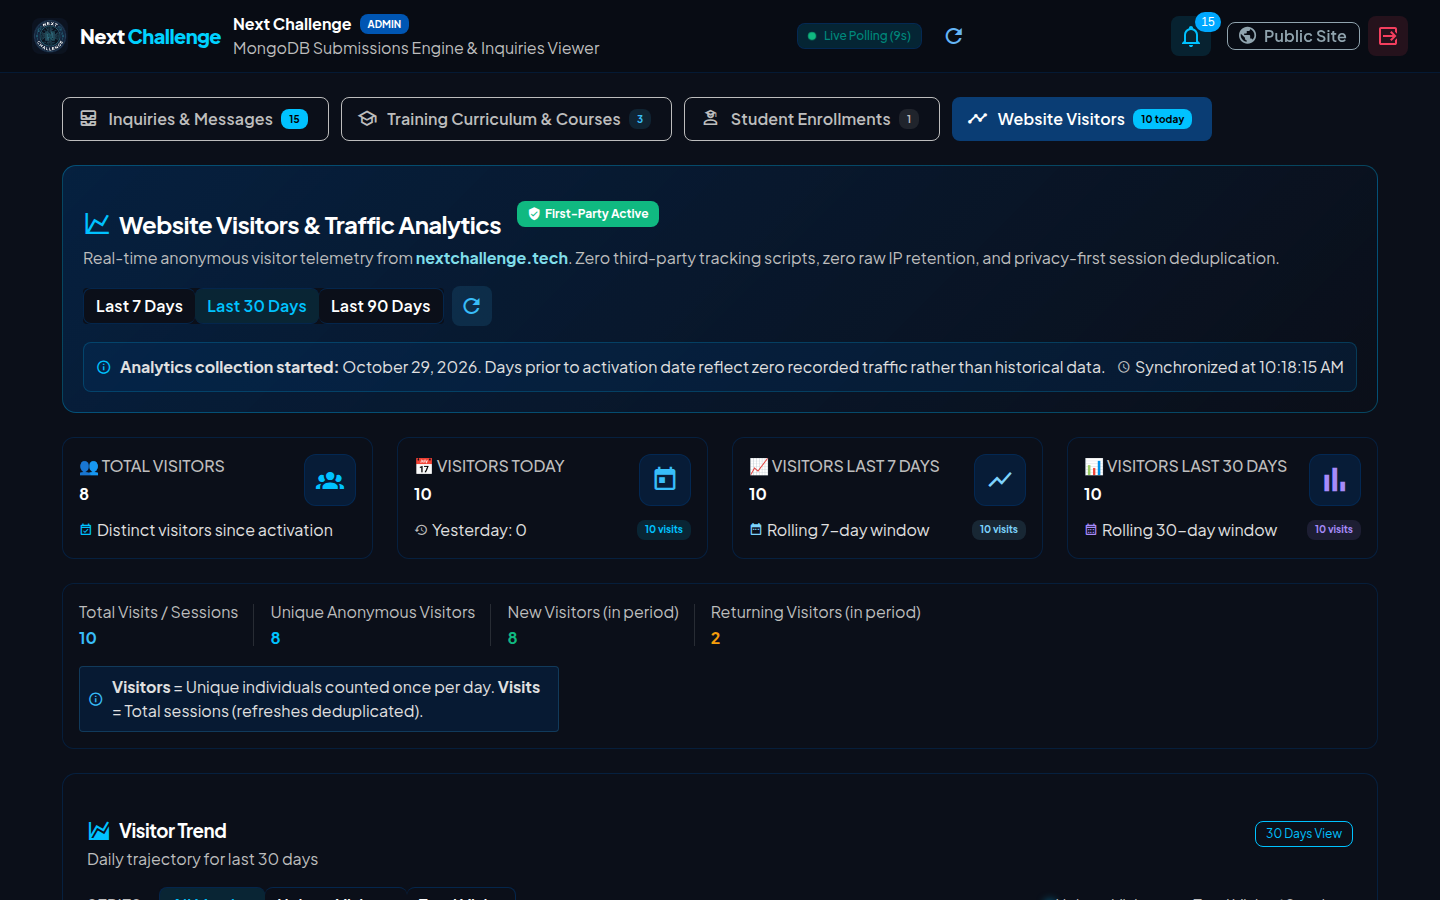
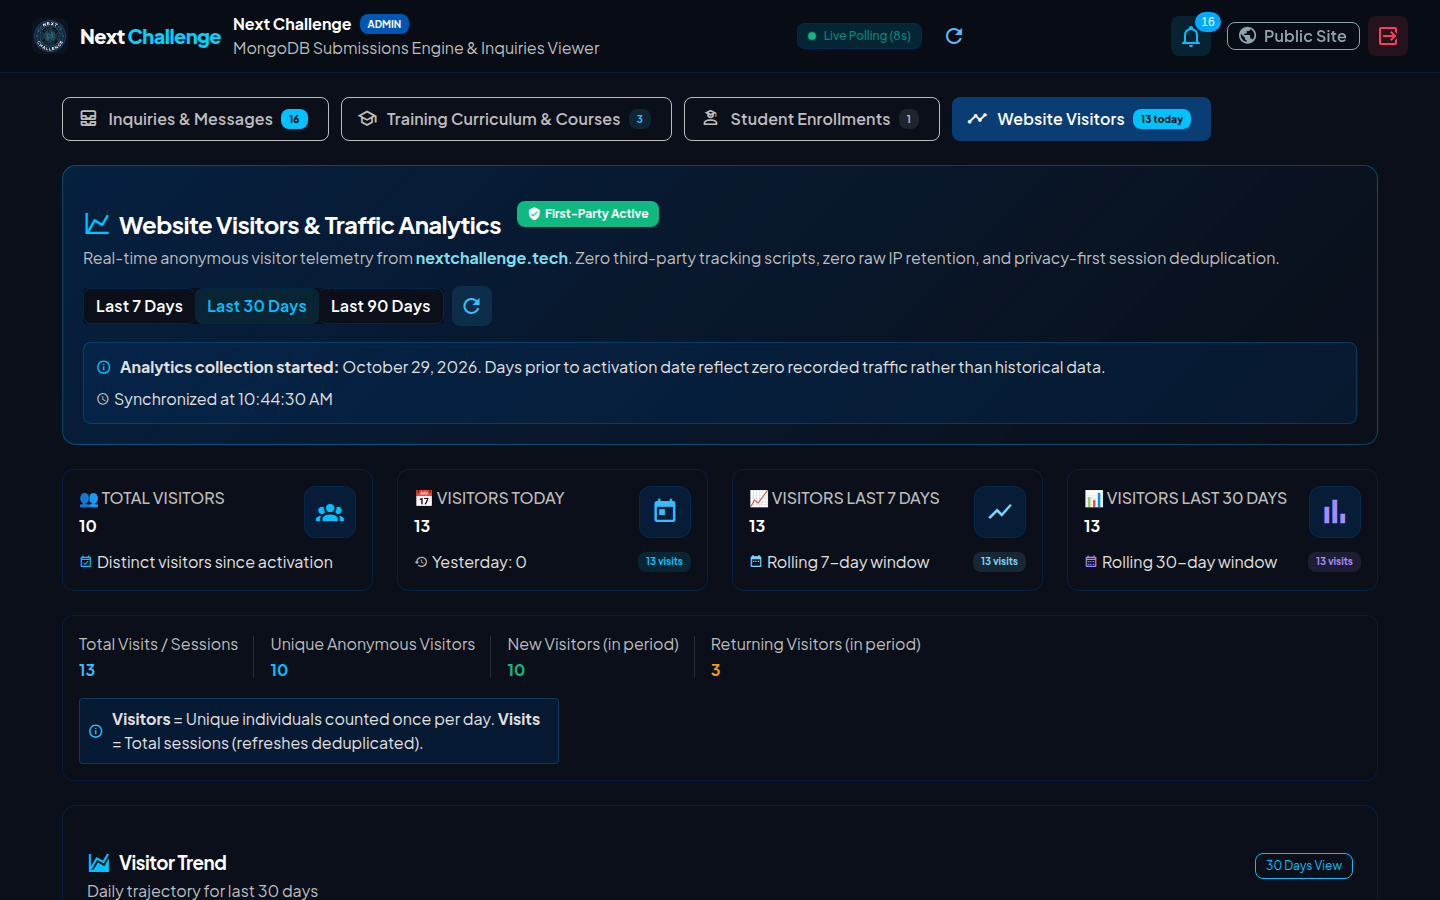
feat(admin): add direct website visitors summary strip and hash routing support

diff --git a/src/components/admin/AdminPanel.vue b/src/components/admin/AdminPanel.vue
@@ -920,8 +920,31 @@ watch([enrollmentFilter, enrollmentSearchQuery], () => {
 
 // Sorter or initial mount
 onMounted(() => {
+  const hash = window.location.hash.toLowerCase()
+  if (hash === '#analytics' || hash === '#visitors') {
+    currentAdminTab.value = 'analytics'
+  } else if (hash === '#courses') {
+    currentAdminTab.value = 'courses'
+  } else if (hash === '#enrollments') {
+    currentAdminTab.value = 'enrollments'
+  }
+
   if (apiKey.value) {
     authenticate()
+  }
+})
+
+watch(currentAdminTab, (tab) => {
+  if (tab === 'analytics') {
+    window.location.hash = '#visitors'
+  } else if (tab === 'courses') {
+    window.location.hash = '#courses'
+  } else if (tab === 'enrollments') {
+    window.location.hash = '#enrollments'
+  } else {
+    if (window.location.hash) {
+      window.location.hash = ''
+    }
   }
 })
 
@@ -1227,6 +1250,42 @@ onUnmounted(() => {
         <!-- TAB 1: SUBMISSIONS & INQUIRIES                 -->
         <!-- ============================================== -->
         <template v-if="currentAdminTab === 'submissions'">
+        <!-- Quick Website Visitors Telemetry Strip -->
+        <v-card
+          class="pa-3 mb-6 analytics-banner-strip cursor-pointer elevation-4"
+          @click="currentAdminTab = 'analytics'; fetchAnalytics(true)"
+        >
+          <div class="d-flex align-center justify-space-between flex-wrap ga-3">
+            <div class="d-flex align-center ga-3">
+              <div class="kpi-mini-icon bg-navy pa-2 rounded-lg d-flex align-center justify-center">
+                <v-icon icon="mdi-chart-line" color="#00c2ff" size="22" />
+              </div>
+              <div>
+                <div class="d-flex align-center ga-2">
+                  <span class="text-subtitle-2 font-weight-bold text-white">Website Visitors</span>
+                  <v-chip size="x-small" color="#10b981" variant="flat" class="font-weight-bold text-slate-900">
+                    Live Telemetry
+                  </v-chip>
+                </div>
+                <div class="text-caption text-grey-lighten-1 mt-0-5">
+                  <strong class="text-cyan">{{ analyticsData?.summary?.todayVisitors || 0 }}</strong> visitors today ·
+                  <strong class="text-sky">{{ analyticsData?.summary?.last7DaysVisitors || 0 }}</strong> last 7 days ·
+                  <strong class="text-white">{{ analyticsData?.summary?.totalVisitors || 0 }}</strong> total since Oct 29, 2026
+                </div>
+              </div>
+            </div>
+            <v-btn
+              size="small"
+              variant="tonal"
+              color="#00c2ff"
+              append-icon="mdi-arrow-right"
+              class="font-weight-bold text-capitalize"
+            >
+              Open Visitor Analytics
+            </v-btn>
+          </div>
+        </v-card>
+
         <!-- KPI Summary Metric Cards -->
         <v-row class="mb-6 gy-4">
           <!-- Total Inquiries -->
@@ -3787,6 +3846,22 @@ onUnmounted(() => {
 }
 
 /* Website Visitors & Analytics Styles */
+.analytics-banner-strip {
+  background: linear-gradient(135deg, rgba(0, 54, 111, 0.5) 0%, rgba(11, 15, 25, 0.9) 100%) !important;
+  border: 1px solid rgba(0, 194, 255, 0.35) !important;
+  border-radius: 12px;
+  transition: all 0.2s ease;
+}
+
+.analytics-banner-strip:hover {
+  border-color: rgba(0, 194, 255, 0.7) !important;
+  box-shadow: 0 4px 20px rgba(0, 54, 111, 0.4) !important;
+}
+
+.cursor-pointer {
+  cursor: pointer;
+}
+
 .analytics-header-card {
   background: linear-gradient(135deg, rgba(0, 54, 111, 0.45) 0%, #0B0F19 100%) !important;
   border: 1px solid rgba(0, 194, 255, 0.3) !important;
